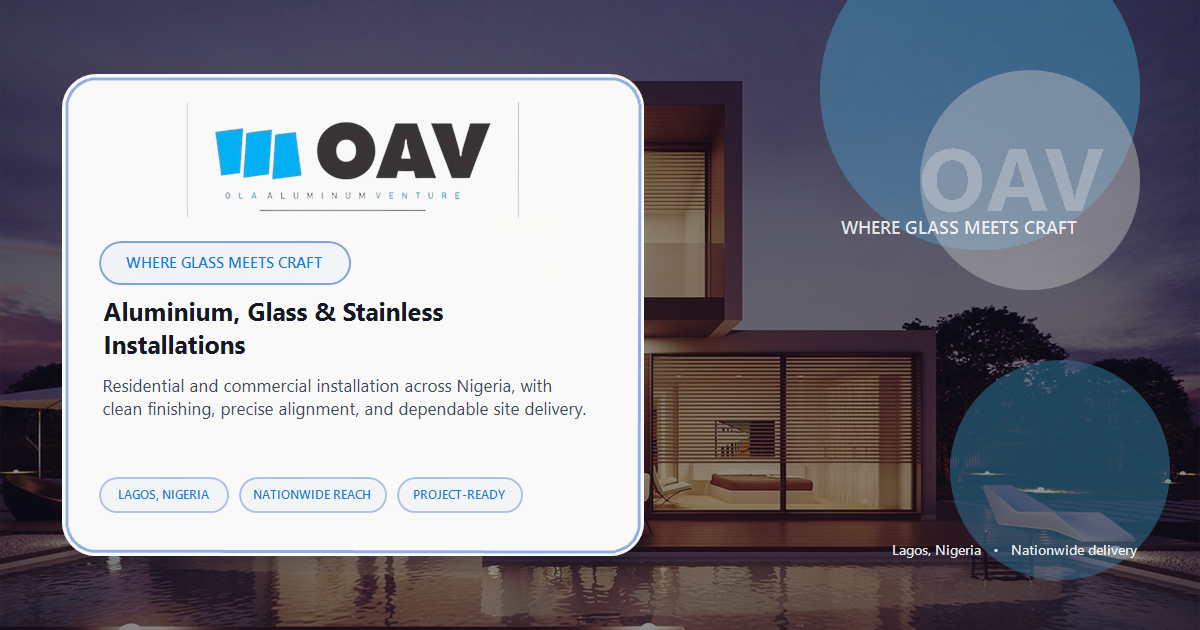
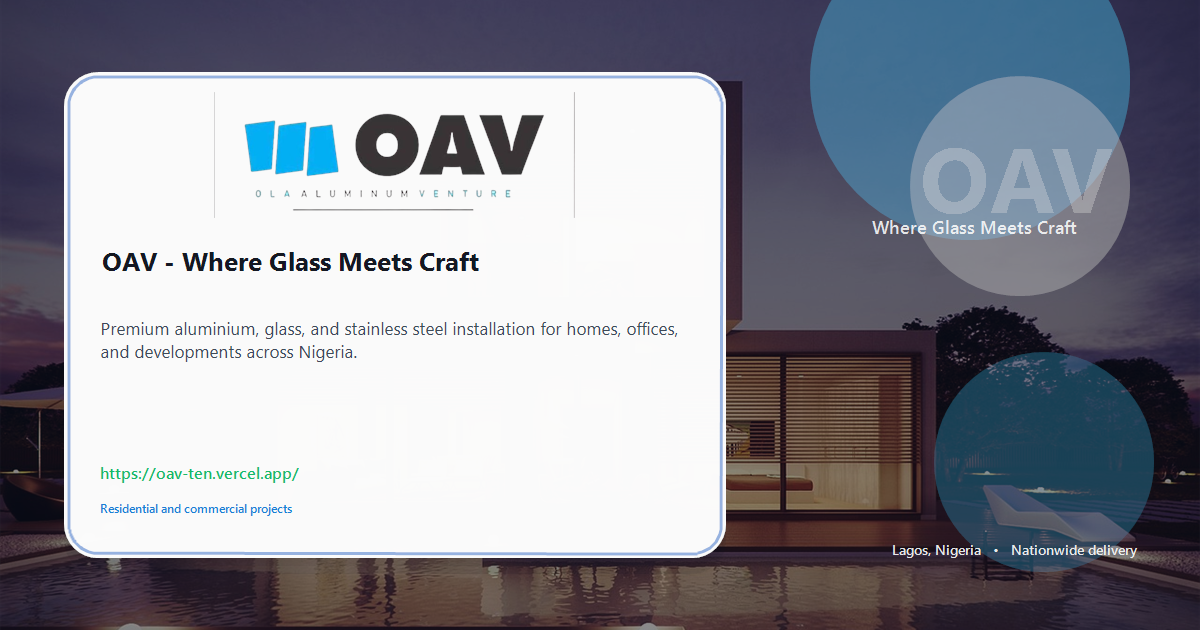
Scroll bug and link display fix

diff --git a/src/sections/ReviewsSection.jsx b/src/sections/ReviewsSection.jsx
@@ -9,18 +9,26 @@ const reveal = {
   transition: { duration: 0.55, ease: [0.22, 1, 0.36, 1] },
 }
 
+const MOBILE_BREAKPOINT = 760
+const AUTO_SCROLL_DELAY_MS = 3200
+const AUTO_SCROLL_RESUME_MS = 900
+
 export default function ReviewsSection({ reviews }) {
-  const [isMobileReviews, setIsMobileReviews] = useState(false)
+  const [isMobileReviews, setIsMobileReviews] = useState(() => {
+    if (typeof window === 'undefined') {
+      return false
+    }
+
+    return window.matchMedia(`(max-width: ${MOBILE_BREAKPOINT}px)`).matches
+  })
   const marqueeRef = useRef(null)
-  const swipeStartXRef = useRef(0)
-  const swipeStartYRef = useRef(0)
-  const isSwipingRef = useRef(false)
+  const autoAdvanceTimeoutRef = useRef(0)
   const resumeTimeoutRef = useRef(0)
-  const loopWidthRef = useRef(0)
-  const displayedReviews = [...reviews, ...reviews]
+  const isPausedRef = useRef(false)
+  const displayedReviews = isMobileReviews ? reviews : [...reviews, ...reviews]
 
   useEffect(() => {
-    const mediaQuery = window.matchMedia('(max-width: 760px)')
+    const mediaQuery = window.matchMedia(`(max-width: ${MOBILE_BREAKPOINT}px)`)
     const syncViewport = () => setIsMobileReviews(mediaQuery.matches)
 
     syncViewport()
@@ -40,92 +48,109 @@ export default function ReviewsSection({ reviews }) {
       return undefined
     }
 
-    let frameId = 0
-    let lastTimestamp = 0
-    const speed = 34
-
-    const updateLoopWidth = () => {
-      loopWidthRef.current = marquee.scrollWidth / 2
+    const stopAutoScroll = () => {
+      window.clearTimeout(autoAdvanceTimeoutRef.current)
     }
 
-    const normalizeScrollPosition = () => {
-      const loopWidth = loopWidthRef.current
+    const stopResumeTimer = () => {
+      window.clearTimeout(resumeTimeoutRef.current)
+    }
 
-      if (!loopWidth) {
+    const getActiveCardIndex = (cards) => {
+      if (!cards.length) {
+        return 0
+      }
+
+      const anchorX = marquee.scrollLeft + marquee.clientWidth / 2
+      let nearestIndex = 0
+      let nearestDistance = Number.POSITIVE_INFINITY
+
+      cards.forEach((card, index) => {
+        const cardCenter = card.offsetLeft + card.offsetWidth / 2
+        const distance = Math.abs(cardCenter - anchorX)
+
+        if (distance < nearestDistance) {
+          nearestDistance = distance
+          nearestIndex = index
+        }
+      })
+
+      return nearestIndex
+    }
+
+    const scheduleAutoScroll = (cards) => {
+      stopAutoScroll()
+
+      if (
+        !cards.length
+        || window.matchMedia('(prefers-reduced-motion: reduce)').matches
+      ) {
         return
       }
 
-      if (marquee.scrollLeft >= loopWidth) {
-        marquee.scrollLeft -= loopWidth
-      }
+      autoAdvanceTimeoutRef.current = window.setTimeout(() => {
+        if (!marquee.isConnected || isPausedRef.current || !cards.length) {
+          return
+        }
 
-      if (marquee.scrollLeft <= 0) {
-        marquee.scrollLeft += loopWidth
-      }
+        const nextIndex = (getActiveCardIndex(cards) + 1) % cards.length
+        cards[nextIndex]?.scrollIntoView({
+          behavior: 'smooth',
+          block: 'nearest',
+          inline: 'start',
+        })
+
+        scheduleAutoScroll(cards)
+      }, AUTO_SCROLL_DELAY_MS)
     }
 
-    updateLoopWidth()
-    marquee.scrollLeft = 1
-
-    const animate = (timestamp) => {
-      if (!lastTimestamp) {
-        lastTimestamp = timestamp
-      }
-
-      const delta = timestamp - lastTimestamp
-      lastTimestamp = timestamp
-
-      if (!isSwipingRef.current) {
-        marquee.scrollLeft += (speed * delta) / 1000
-        normalizeScrollPosition()
-      }
-
-      frameId = window.requestAnimationFrame(animate)
+    const pauseAutoScroll = () => {
+      isPausedRef.current = true
+      stopAutoScroll()
+      stopResumeTimer()
     }
 
-    window.addEventListener('resize', updateLoopWidth)
-    frameId = window.requestAnimationFrame(animate)
+    const resumeAutoScroll = (cards) => {
+      stopResumeTimer()
+      resumeTimeoutRef.current = window.setTimeout(() => {
+        if (!marquee.isConnected) {
+          return
+        }
+
+        isPausedRef.current = false
+        scheduleAutoScroll(cards)
+      }, AUTO_SCROLL_RESUME_MS)
+    }
+
+    const handleTouchStart = () => {
+      pauseAutoScroll()
+    }
+
+    const handleTouchEnd = () => {
+      resumeAutoScroll(cards)
+    }
+
+    const cards = Array.from(
+      marquee.querySelectorAll('.oav-reviews-track .oav-review-card'),
+    )
+
+    isPausedRef.current = false
+    marquee.scrollTo({ left: 0, behavior: 'auto' })
+    marquee.addEventListener('touchstart', handleTouchStart, { passive: true })
+    marquee.addEventListener('touchend', handleTouchEnd, { passive: true })
+    marquee.addEventListener('touchcancel', handleTouchEnd, { passive: true })
+    scheduleAutoScroll(cards)
 
     return () => {
-      window.cancelAnimationFrame(frameId)
-      window.clearTimeout(resumeTimeoutRef.current)
-      window.removeEventListener('resize', updateLoopWidth)
+      pauseAutoScroll()
+      stopResumeTimer()
+      marquee.removeEventListener('touchstart', handleTouchStart)
+      marquee.removeEventListener('touchend', handleTouchEnd)
+      marquee.removeEventListener('touchcancel', handleTouchEnd)
     }
   }, [isMobileReviews, reviews.length])
 
-  const scheduleResume = () => {
-    window.clearTimeout(resumeTimeoutRef.current)
-    resumeTimeoutRef.current = window.setTimeout(() => {
-      isSwipingRef.current = false
-    }, 650)
-  }
-
-  const handleTouchStart = (event) => {
-    swipeStartXRef.current = event.touches[0]?.clientX ?? 0
-    swipeStartYRef.current = event.touches[0]?.clientY ?? 0
-  }
-
-  const handleTouchMove = (event) => {
-    const currentX = event.touches[0]?.clientX ?? swipeStartXRef.current
-    const currentY = event.touches[0]?.clientY ?? swipeStartYRef.current
-
-    if (
-      Math.abs(currentX - swipeStartXRef.current) > 8
-      && Math.abs(currentX - swipeStartXRef.current) > Math.abs(currentY - swipeStartYRef.current)
-    ) {
-      isSwipingRef.current = true
-      window.clearTimeout(resumeTimeoutRef.current)
-    }
-  }
-
-  const handleTouchEnd = () => {
-    swipeStartXRef.current = 0
-    swipeStartYRef.current = 0
-
-    if (isSwipingRef.current) {
-      scheduleResume()
-    }
-  }
+  const ReviewCardTag = isMobileReviews ? 'article' : motion.article
 
   return (
     <section id="reviews" className="oav-section oav-section--steel">
@@ -138,31 +163,28 @@ export default function ReviewsSection({ reviews }) {
 
         <div
           className={`oav-reviews-marquee ${isMobileReviews ? 'is-mobile' : ''}`}
-          onTouchEnd={isMobileReviews ? handleTouchEnd : undefined}
-          onTouchMove={isMobileReviews ? handleTouchMove : undefined}
-          onTouchStart={isMobileReviews ? handleTouchStart : undefined}
           ref={marqueeRef}
         >
           <div className={`oav-reviews-track ${isMobileReviews ? 'is-mobile' : ''}`}>
             {displayedReviews.map((review, index) => (
-              <motion.article
+              <ReviewCardTag
                 key={`${review.project}-${review.location}-${index}`}
                 aria-hidden={index >= reviews.length}
                 className="oav-review-card"
-                {...reveal}
+                {...(isMobileReviews ? {} : reveal)}
               >
-              <div className="oav-review-meta">
-                <span className="oav-card-tag">{review.project}</span>
-                <span className="oav-review-location">{review.location}</span>
-              </div>
+                <div className="oav-review-meta">
+                  <span className="oav-card-tag">{review.project}</span>
+                  <span className="oav-review-location">{review.location}</span>
+                </div>
 
-              <p className="oav-review-quote">"{review.quote}"</p>
+                <p className="oav-review-quote">"{review.quote}"</p>
 
-              <div className="oav-review-client">
-                <strong>{review.client}</strong>
-                <span>{review.role}</span>
-              </div>
-              </motion.article>
+                <div className="oav-review-client">
+                  <strong>{review.client}</strong>
+                  <span>{review.role}</span>
+                </div>
+              </ReviewCardTag>
             ))}
           </div>
         </div>

diff --git a/index.html b/index.html
@@ -10,7 +10,7 @@
     <meta name="author" content="Ola Aluminum Venture" />
     <meta
       name="description"
-      content="OAV delivers aluminium, glass, and stainless steel installation for residential and commercial properties across Nigeria."
+      content="OAV - Where Glass Meets Craft. Premium aluminium, glass, and stainless steel installation for homes, offices, and developments across Nigeria."
     />
     <meta name="format-detection" content="telephone=no" />
     <meta name="robots" content="index,follow" />
@@ -18,25 +18,31 @@
     <meta name="apple-mobile-web-app-title" content="OAV" />
     <meta name="msapplication-TileColor" content="#08111c" />
     <meta name="msapplication-TileImage" content="/apple-touch-icon.png" />
-    <meta property="og:description" content="Where Glass Meets Craft. OAV delivers aluminium, glass, and stainless steel installation for residential and commercial properties across Nigeria." />
+    <meta property="og:description" content="Premium aluminium, glass, and stainless steel installation for homes, offices, and developments across Nigeria." />
     <meta property="og:image" content="/oav-share.png" />
+    <meta property="og:image:alt" content="OAV branded social preview with logo, tagline, and service summary." />
     <meta property="og:image:height" content="630" />
     <meta property="og:image:width" content="1200" />
     <meta property="og:locale" content="en_NG" />
     <meta property="og:site_name" content="OAV" />
-    <meta property="og:title" content="OAV | Aluminium, Glass & Stainless Installations" />
+    <meta property="og:title" content="OAV - Where Glass Meets Craft" />
     <meta property="og:type" content="website" />
+    <meta property="og:url" content="https://oav-ten.vercel.app/" />
     <meta name="twitter:card" content="summary_large_image" />
-    <meta name="twitter:description" content="Where Glass Meets Craft. OAV delivers aluminium, glass, and stainless steel installation for residential and commercial properties across Nigeria." />
+    <meta name="twitter:description" content="Premium aluminium, glass, and stainless steel installation for homes, offices, and developments across Nigeria." />
+    <meta name="twitter:image:alt" content="OAV branded social preview with logo, tagline, and service summary." />
     <meta name="twitter:image" content="/oav-share.png" />
-    <meta name="twitter:title" content="OAV | Aluminium, Glass & Stainless Installations" />
+    <meta name="twitter:title" content="OAV - Where Glass Meets Craft" />
+    <meta name="twitter:url" content="https://oav-ten.vercel.app/" />
+    <link rel="canonical" href="https://oav-ten.vercel.app/" />
+    <link rel="icon" href="/favicon.ico" sizes="any" />
     <link rel="icon" type="image/png" sizes="192x192" href="/oav-icon-192.png" />
     <link rel="icon" type="image/png" sizes="512x512" href="/oav-favicon.png" />
     <link rel="apple-touch-icon" href="/apple-touch-icon.png" />
     <link rel="dns-prefetch" href="https://res.cloudinary.com" />
     <link rel="preconnect" href="https://res.cloudinary.com" crossorigin />
     <link rel="manifest" href="/site.webmanifest" />
-    <title>OAV | Where Glass Meets Craft</title>
+    <title>OAV - Where Glass Meets Craft</title>
   </head>
   <body>
     <div id="root"></div>

diff --git a/src/styles/site.css b/src/styles/site.css
@@ -2932,9 +2932,13 @@
   }
 
   .oav-reviews-marquee.is-mobile {
-    overflow: auto hidden;
+    overflow-x: auto;
+    overflow-y: visible;
     -webkit-overflow-scrolling: touch;
-    touch-action: pan-x;
+    touch-action: auto;
+    overscroll-behavior-x: contain;
+    scroll-snap-type: x mandatory;
+    scroll-behavior: smooth;
     scrollbar-width: none;
     -ms-overflow-style: none;
     padding-bottom: 8px;
@@ -2944,19 +2948,19 @@
     display: none;
   }
 
-  .oav-reviews-marquee.is-mobile:hover .oav-reviews-track {
-    animation-play-state: running;
-  }
-
   .oav-reviews-track.is-mobile {
     width: max-content;
     gap: 18px;
     padding-inline: 0 1rem;
     animation: none;
+    will-change: auto;
   }
 
   .oav-reviews-track.is-mobile .oav-review-card {
     flex: 0 0 min(82vw, 320px);
+    scroll-snap-align: start;
+    scroll-snap-stop: always;
+    transition: none;
   }
 
   .oav-reviews-track.is-mobile .oav-review-card:hover,
